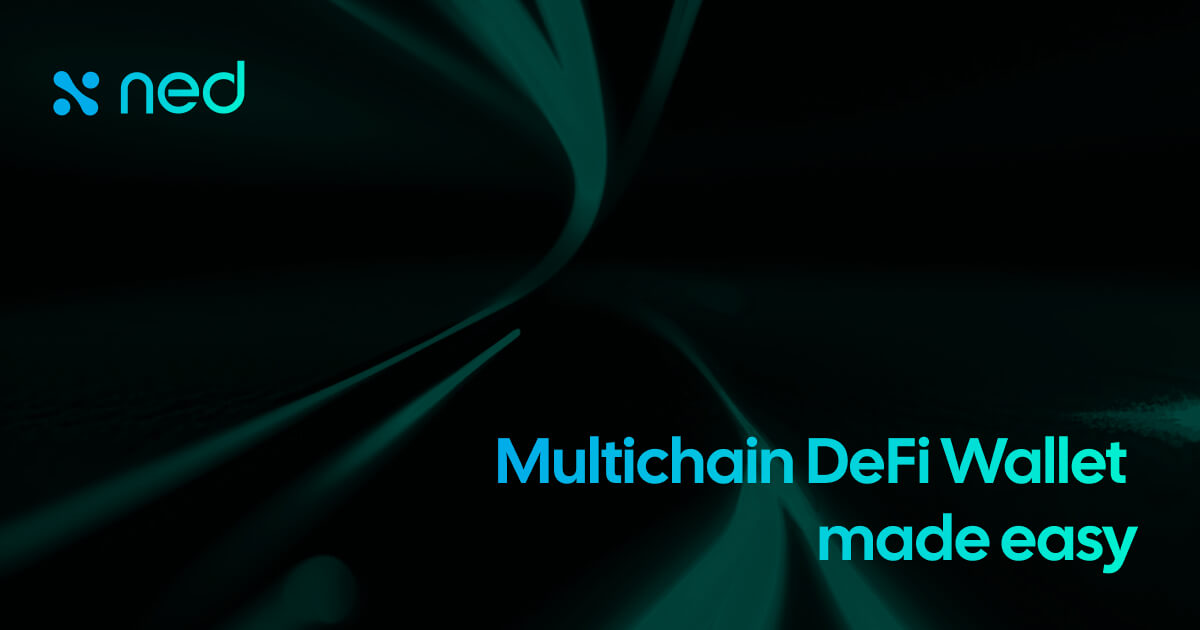
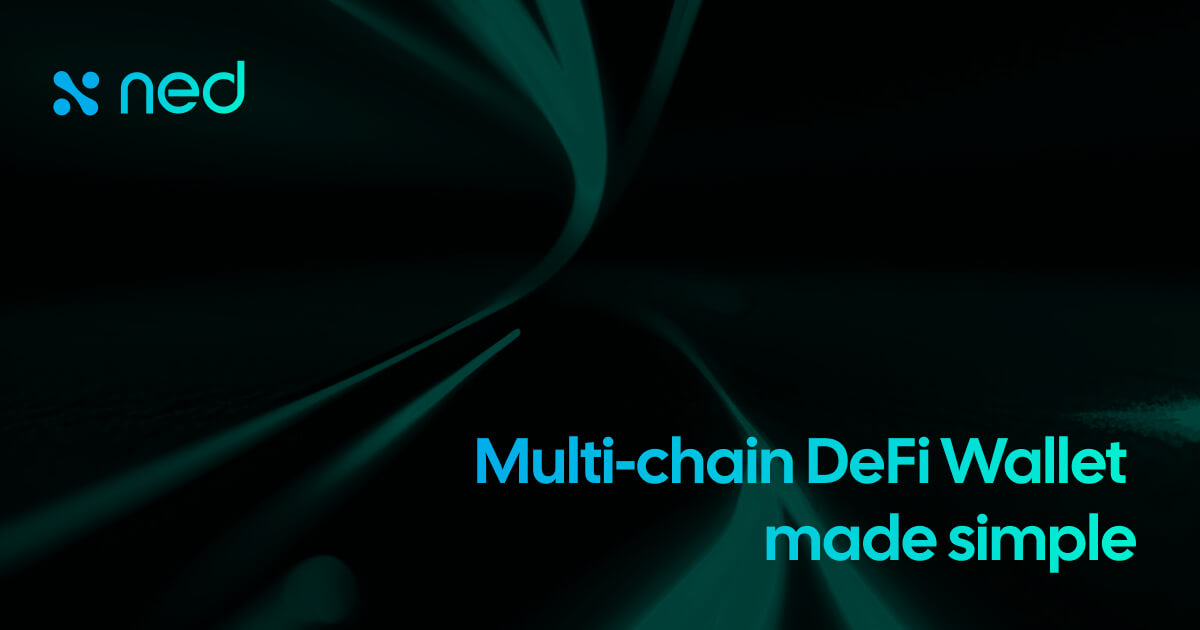
replace easy for simple

Changed region(s): [[0.6167, 0.8143, 0.9558, 0.9048], [0.37, 0.6937, 0.555, 0.7841]]

diff --git a/pages/_app.tsx b/pages/_app.tsx
@@ -5,17 +5,17 @@ function MyApp({ Component, pageProps }) {
   return (
     <>
       <NextSeo
-        title="Ned Finance: all in on multi-chain DeFi wallet, made easy | %s"
+        title="Ned Finance: all in on multi-chain DeFi wallet, made simple | %s"
         description="Ned Finance is a next level wallet to take DeFi one step further, creating unique experiences while increasing the use cases of crypto."
         canonical="https://ned.finance/"
         openGraph={{
           url: 'https://ned.finance/',
-          title: 'Ned Finance: all in on multi-chain DeFi wallet, made easy',
+          title: 'Ned Finance: all in on multi-chain DeFi wallet, made simple',
           description: 'Ned Finance is a next level wallet to take DeFi one step further, creating unique experiences while increasing the use cases of crypto.',
           images: [
             {
               url: 'https://ned.finance/img/og.jpg',
-              alt: 'Ned Finance: all in on multi-chain DeFi wallet, made easy',
+              alt: 'Ned Finance: all in on multi-chain DeFi wallet, made simple',
               type: 'image/jpeg',
             },
           ],

diff --git a/components/hero.tsx b/components/hero.tsx
@@ -15,7 +15,7 @@ export default function Hero() {
         <div className="flex items-center w-full lg:w-1/2">
           <div className="max-w-2xl mb-8">
             <h1 className="text-4xl font-bold leading-snug tracking-tight text-gray-800 lg:text-4xl lg:leading-tight xl:text-6xl xl:leading-tight text-transparent bg-clip-text bg-gradient-to-r from-ned-green to-ned-blue font-calSans">
-              Multichain DeFi Wallet, made easy
+              Multichain DeFi Wallet, made simple
             </h1>
             <div className="py-5 text-xl leading-normal text-gray-500 lg:text-xl xl:text-xl dark:text-gray-300">
               <div>Your personal DeFi Wallet only for the fastest blockchains. </div>
